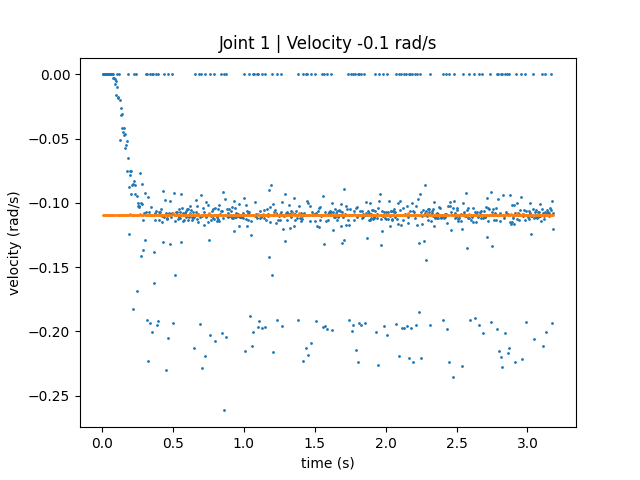
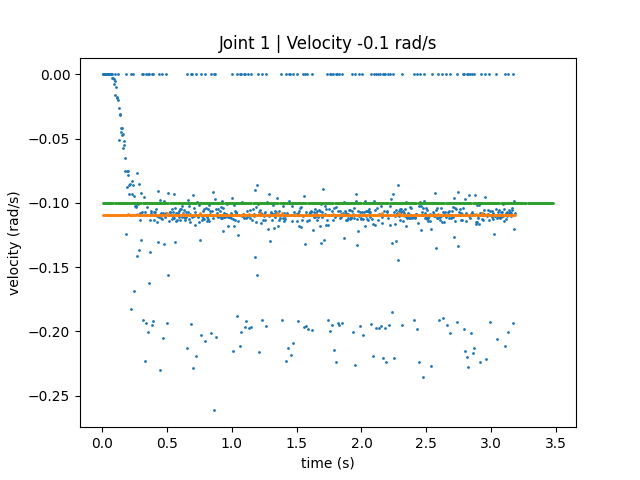
velocity debugging issues

diff --git a/streaming_tests/single_joint_exp/plot_joint_vel_procedural.py b/streaming_tests/single_joint_exp/plot_joint_vel_procedural.py
@@ -3,8 +3,9 @@ import numpy as np
 import matplotlib.pyplot as plt
 
 data_dir='../../../recorded_data/streaming/'
+STREAMING_RATE = 125.
 
-for name in os.listdir(data_dir):
+for name in os.listdir(data_dir)[2:]:
     try:
         s=name.split('_')
         joint=int(s[2])
@@ -21,6 +22,12 @@ for name in os.listdir(data_dir):
         exe_time_diff = exe_stamps[1:]-exe_stamps[:-1]
         cmd_time_diff = cmd_stamps[1:]-cmd_stamps[:-1]
 
+        # artificial time difference from STREAMING_RATE
+        time_exe_stream = np.linspace(0, (len(cmd_stamps)-1)/STREAMING_RATE, len(cmd_stamps))
+        time_diff_stream = time_exe_stream[1:]-time_exe_stream[:-1] 
+        print(time_diff_stream[:5])
+        print(cmd_time_diff[:5])
+    
         # calculate joint difference
         exe_joint_diff = exe_joints[1:]-exe_joints[:-1]
         cmd_joint_diff = cmd_joints[1:]-cmd_joints[:-1]
@@ -28,6 +35,7 @@ for name in os.listdir(data_dir):
         # calculate velocity
         exe_vel = exe_joint_diff/exe_time_diff
         cmd_vel = cmd_joint_diff/cmd_time_diff
+        cmd_vel_adjust = cmd_joint_diff/time_diff_stream
 
 
         
@@ -36,10 +44,13 @@ for name in os.listdir(data_dir):
         fig,ax=plt.subplots()
         ax.scatter(exe_stamps[1:]-exe_stamps[0],exe_vel,s=1)
         ax.scatter(cmd_stamps[1:]-cmd_stamps[0],cmd_vel,s=1)
+        ax.scatter(time_exe_stream[1:],cmd_vel_adjust,s=1)
         ax.set_xlabel('time (s)')
         ax.set_ylabel('velocity (rad/s)')
         ax.set_title(f'Joint {joint+1} | Velocity {vel} rad/s')
         fig.savefig(f'procedural_plots/velocity_plots/joint_{joint+1}_vel_{vel}.png')
+        plt.show()
+        exit()
     except FileNotFoundError:
         pass
     except IndexError:
